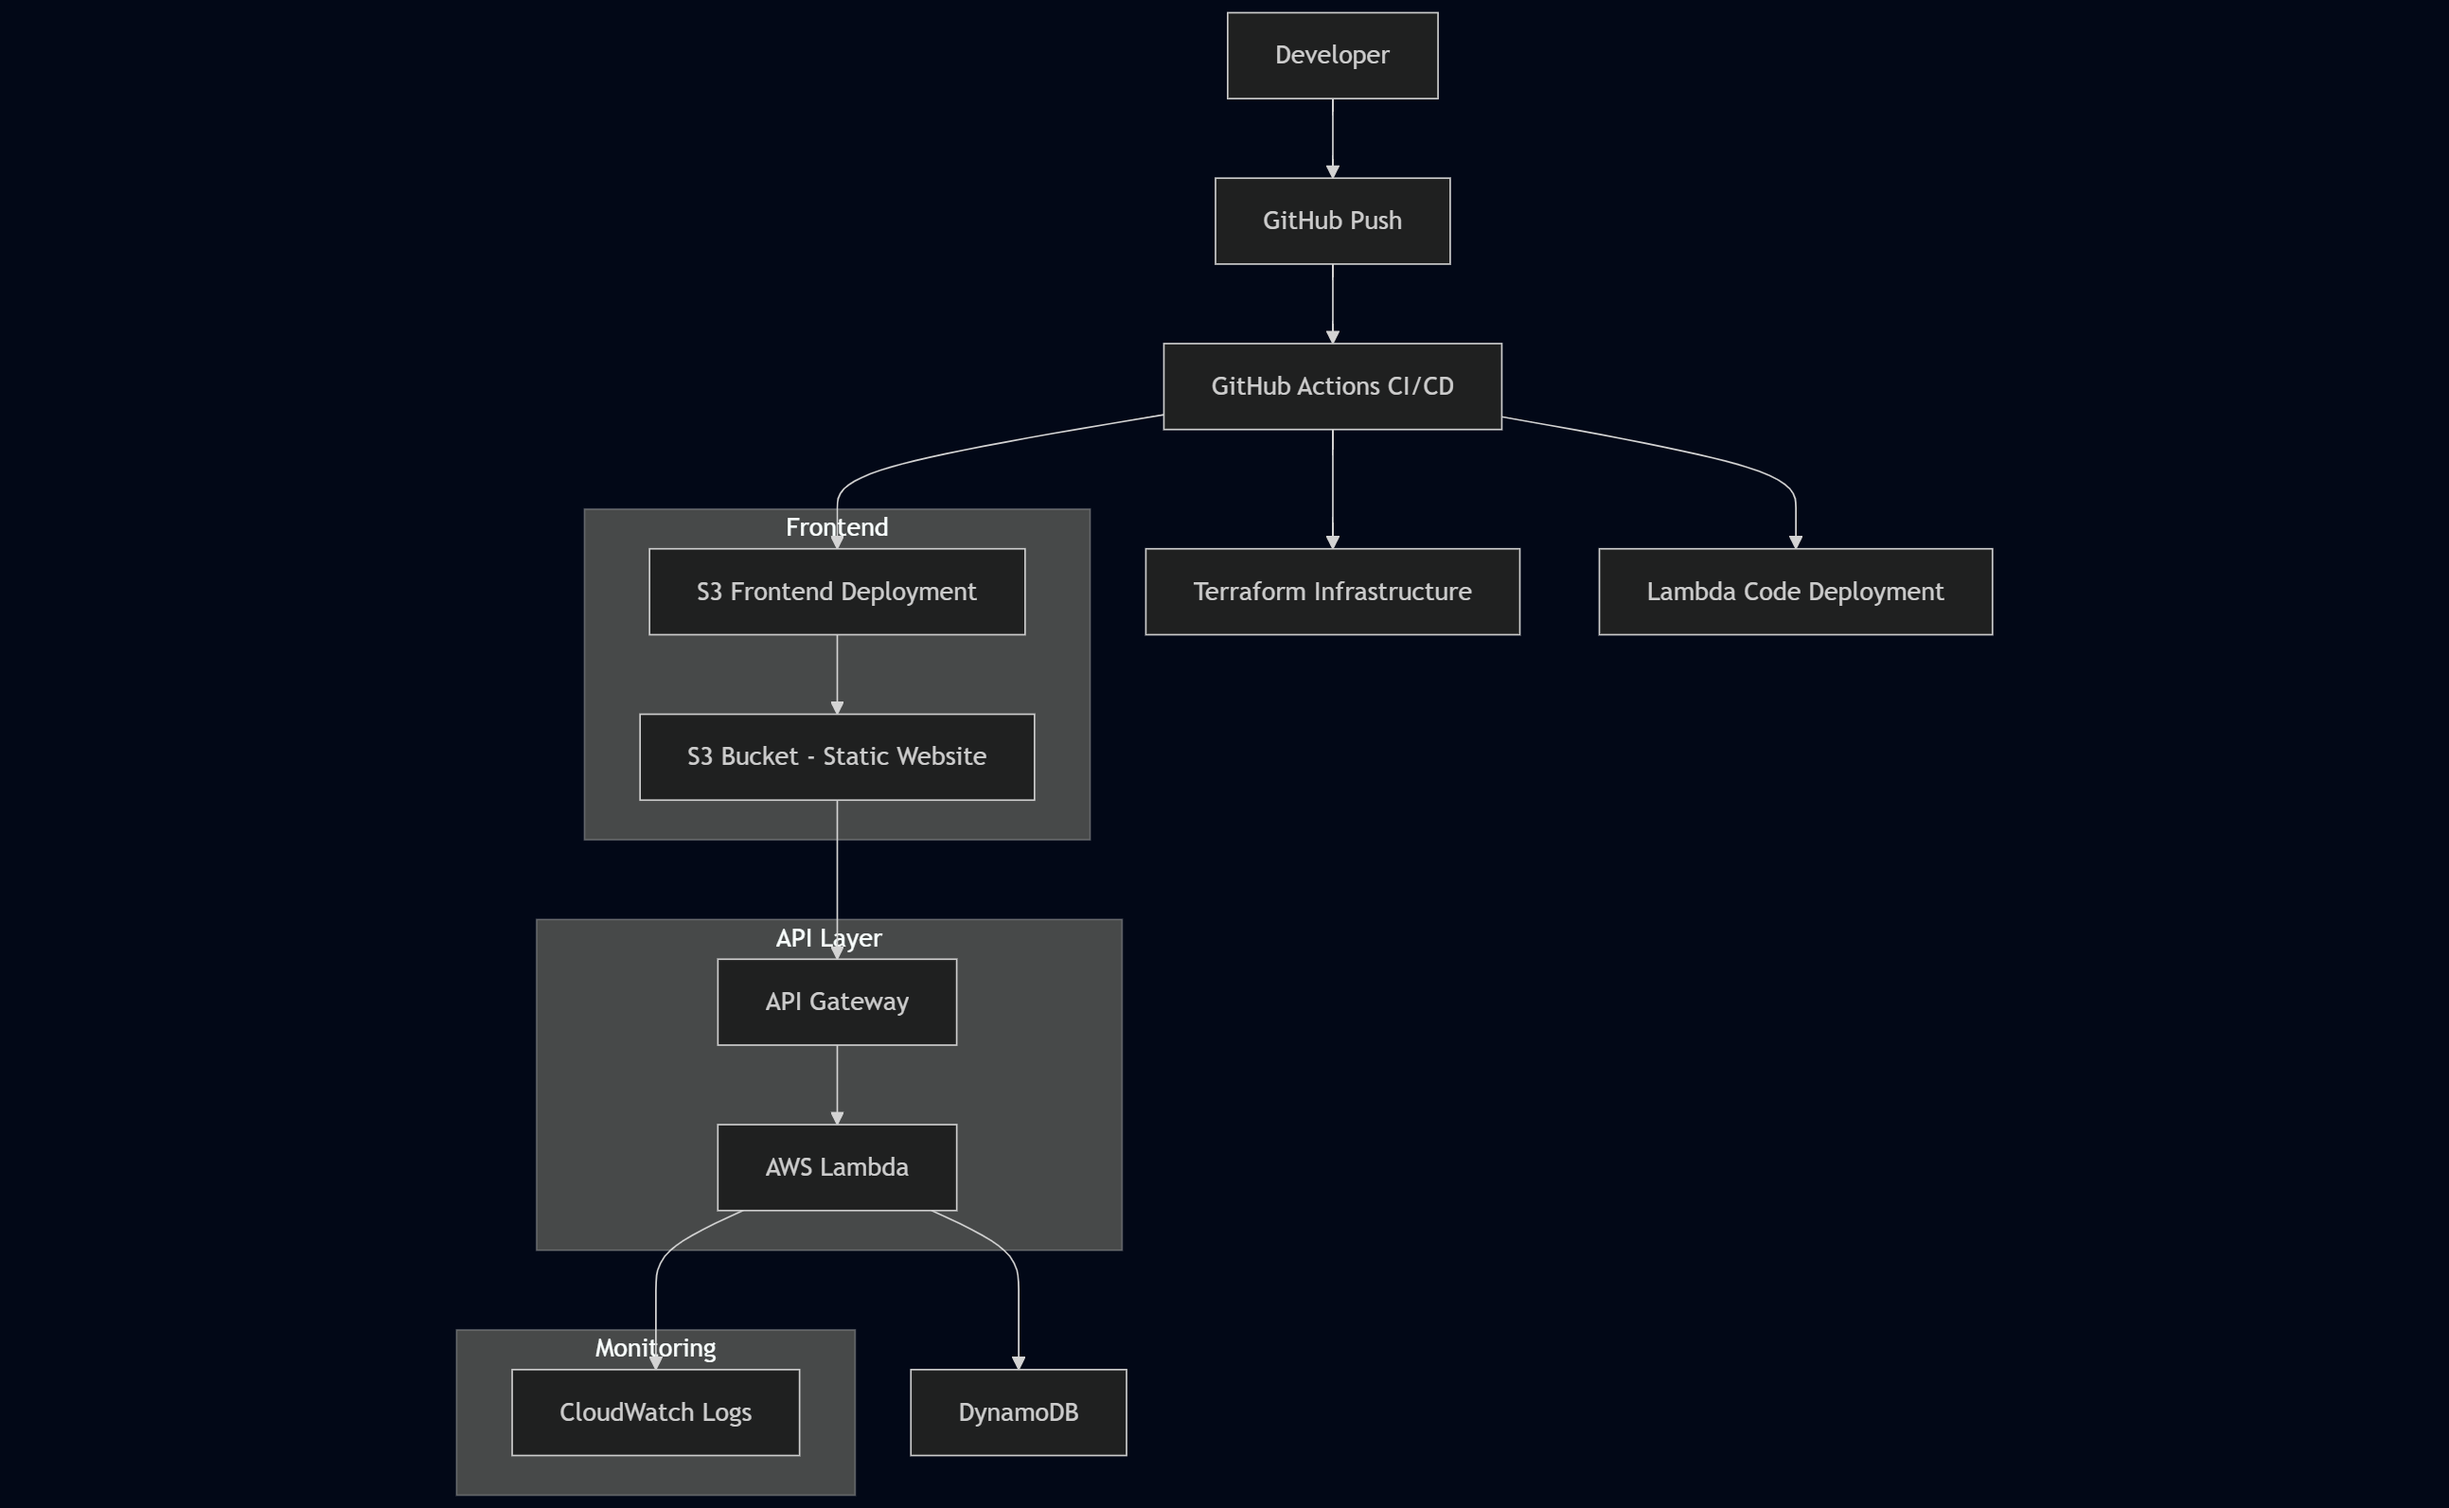
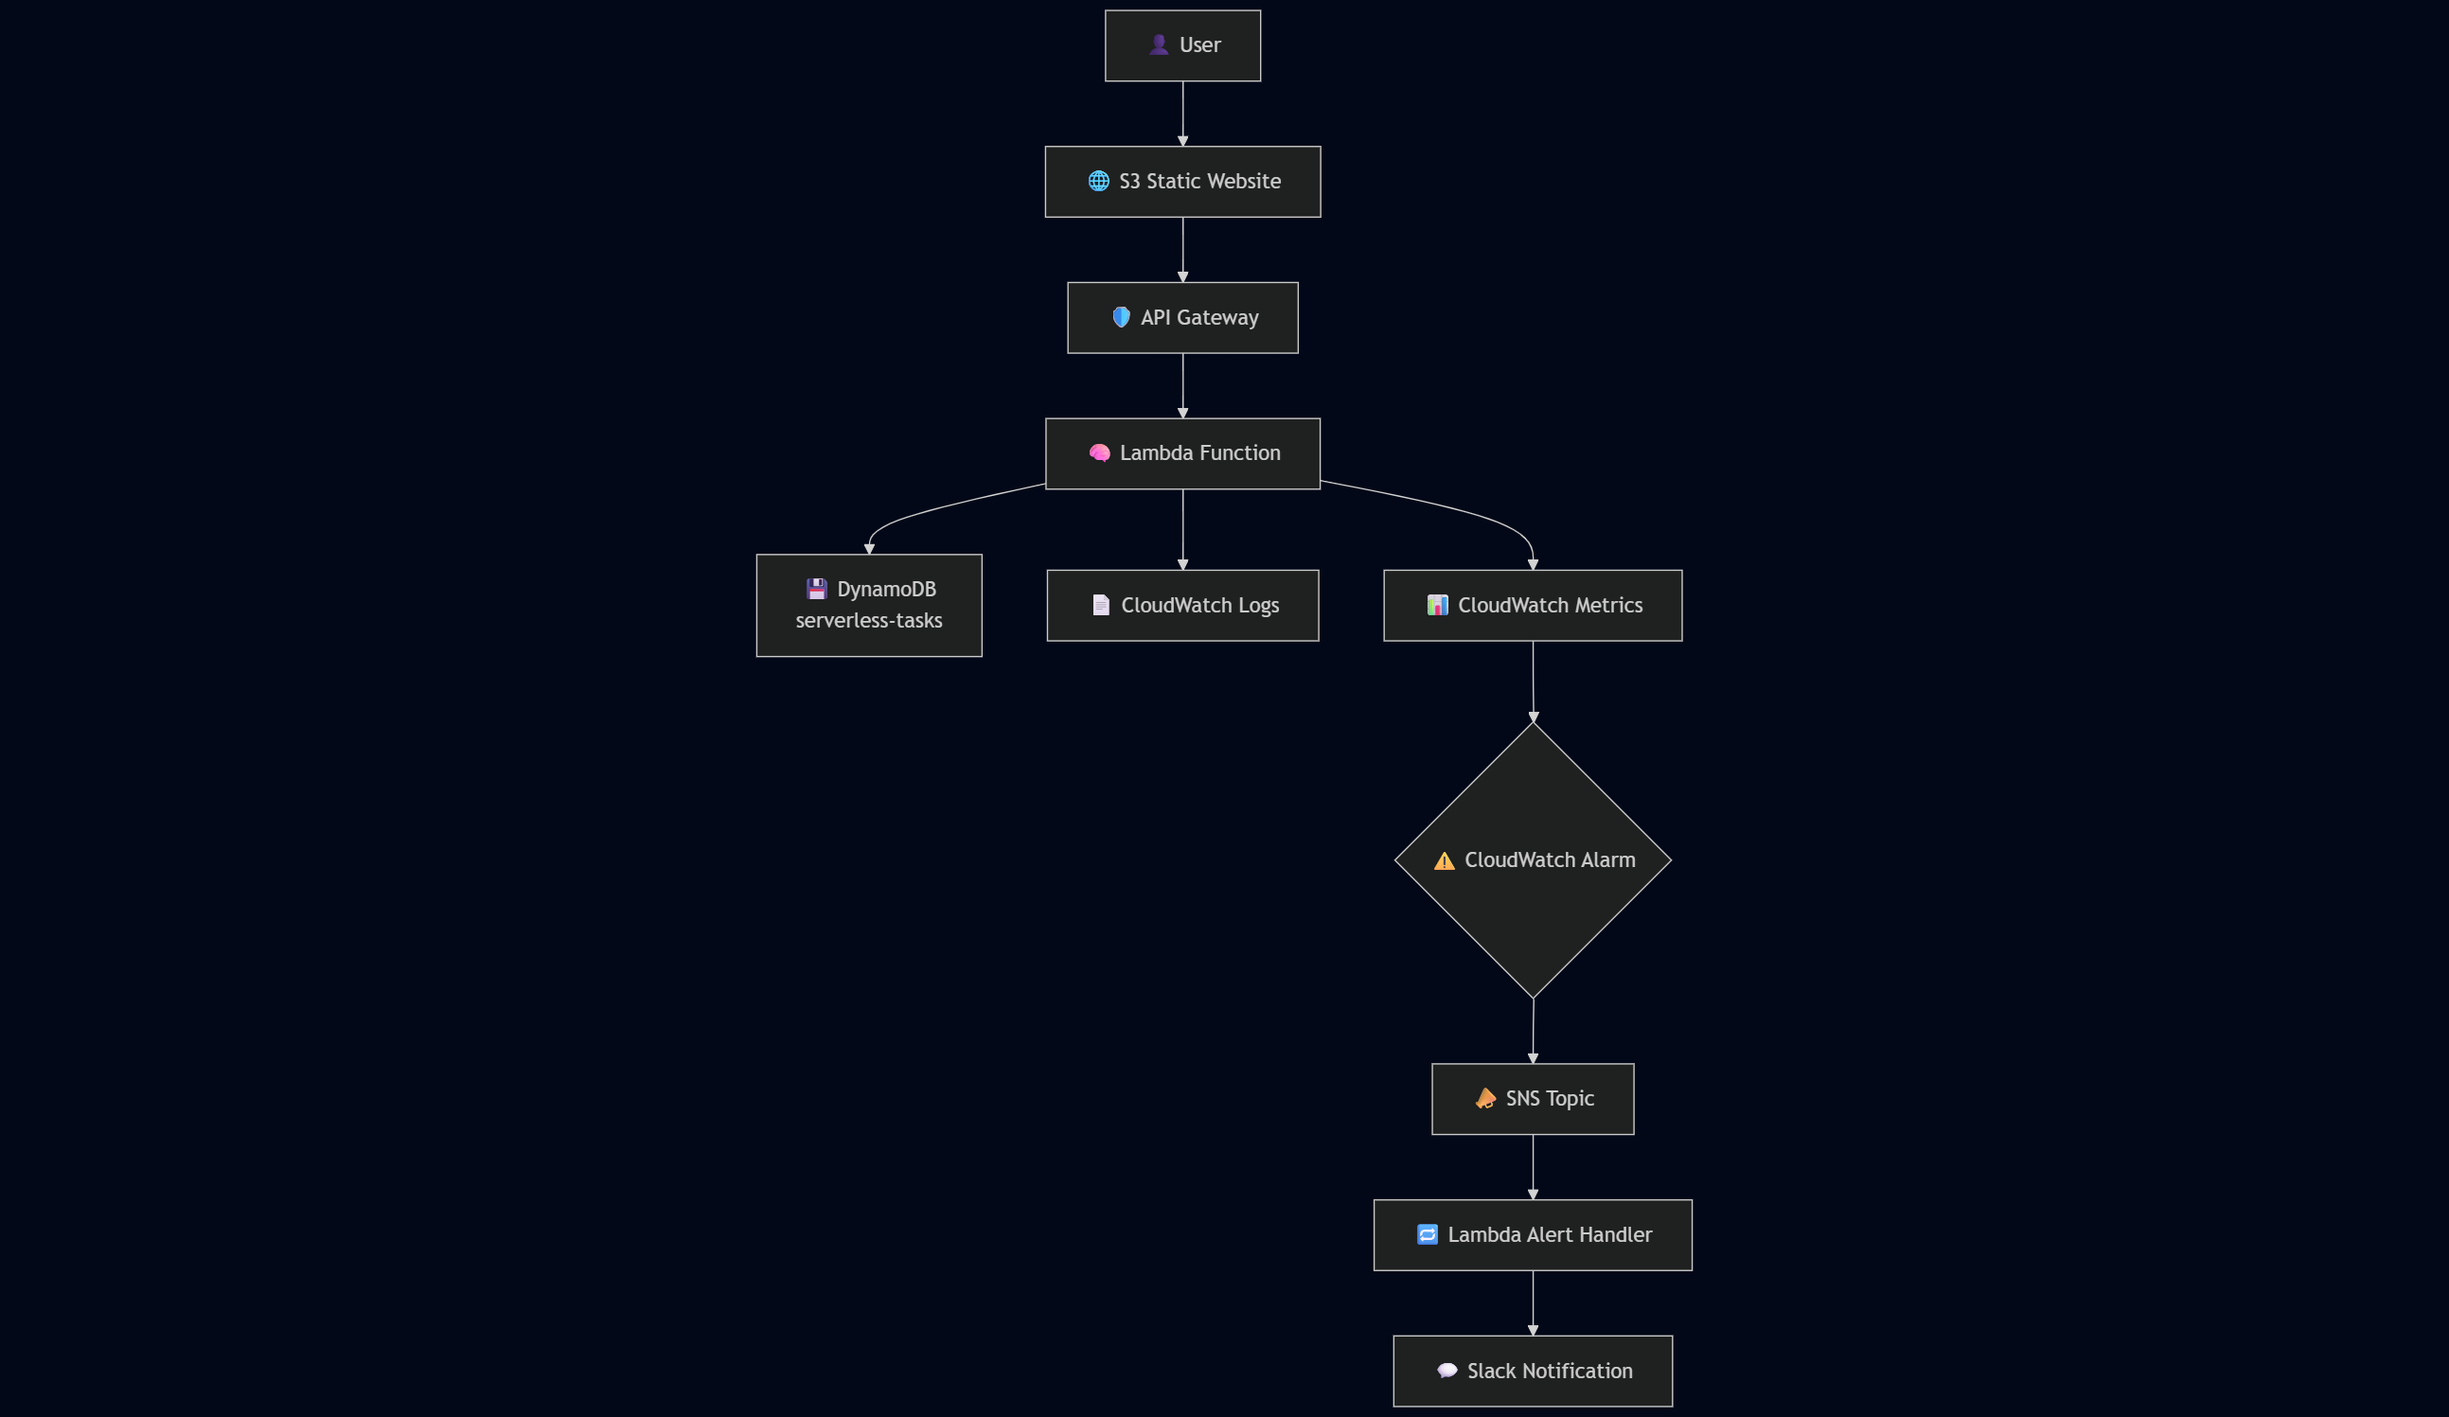
Remove old diagrams, add updated architecture diagram (19.06)

diff --git a/README.md b/README.md
@@ -20,7 +20,7 @@ Designed for scalability, automation, and zero server maintenance.
 
 ## 🏗 Architecture Overview
 
-![Serverless Architecture](./diagram-serverless.png)
+![Serverless Architecture](./diagram.png)
 
 | Layer        | Technology                                   |
 |--------------|----------------------------------------------|
